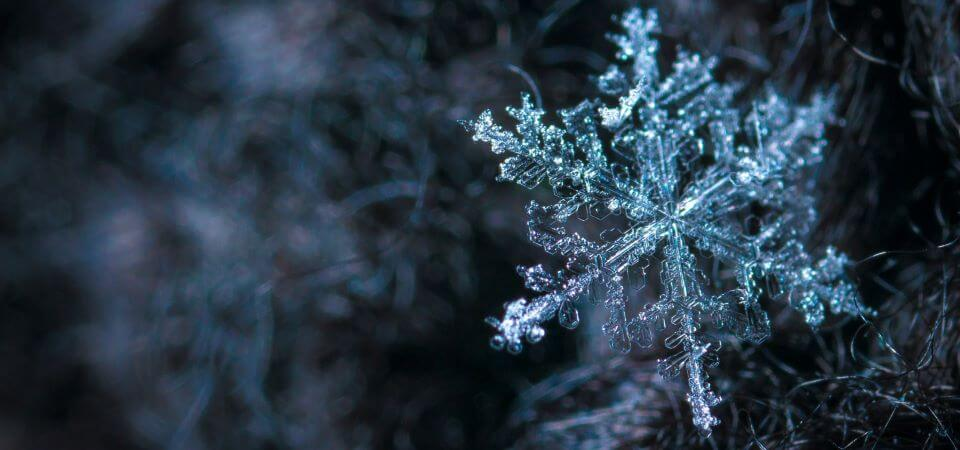
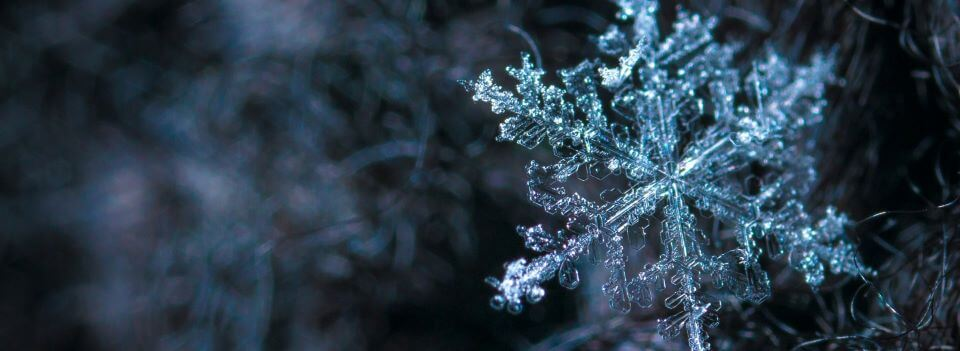
Commit

diff --git a/Lesson-9/index.html b/Lesson-9/index.html
@@ -37,7 +37,7 @@
         </nav>
 
         <main>
-            <img src="images/snowflake-large.jpg" alt="Snowflake">
+            <img src="images/snowflake-large.jpg" alt="Snowflake" class="hero-image">
         </main>
 
         <footer id="galleryfooter">

diff --git a/Lesson-6/css/small.css b/Lesson-6/css/small.css
@@ -251,3 +251,7 @@ form label.sev span {
     margin:3em;
     text-align:center;
 }
+
+
+/* HOMEPAGE */
+
